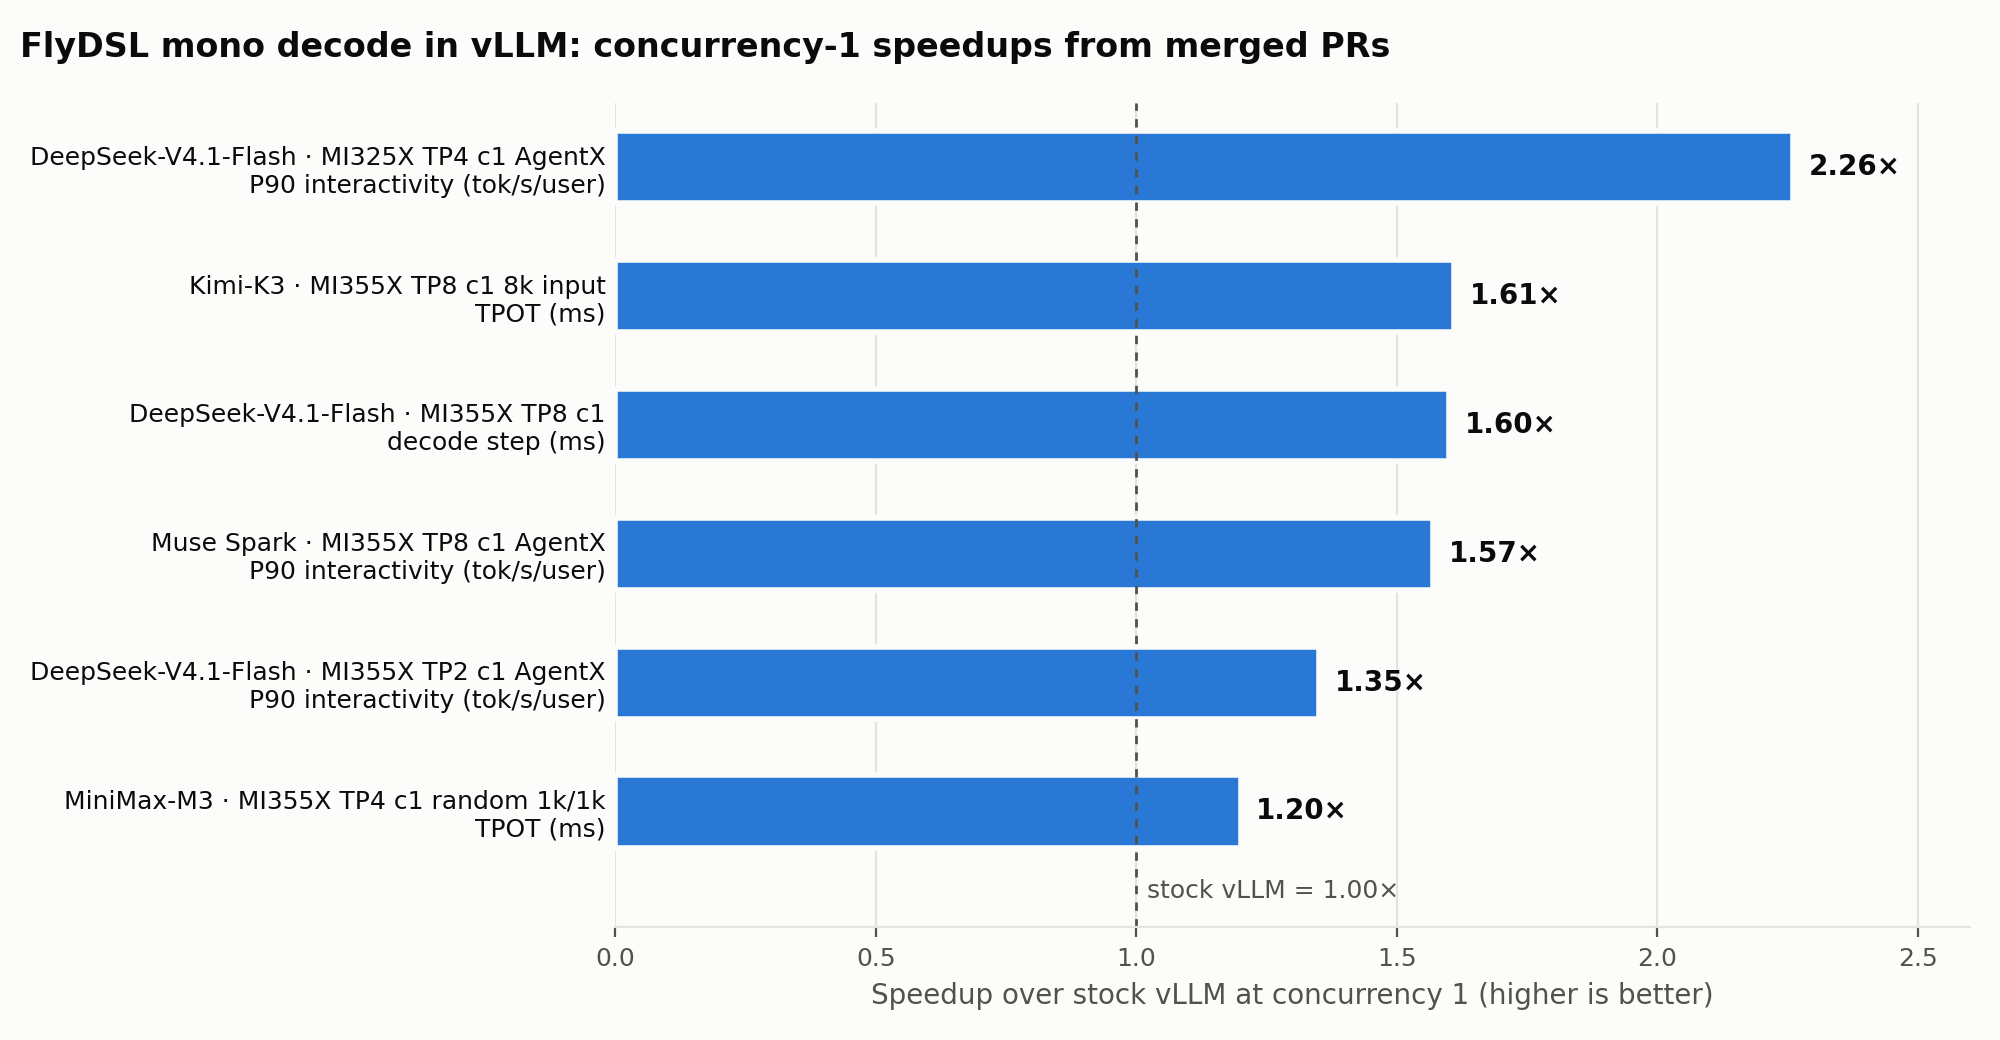
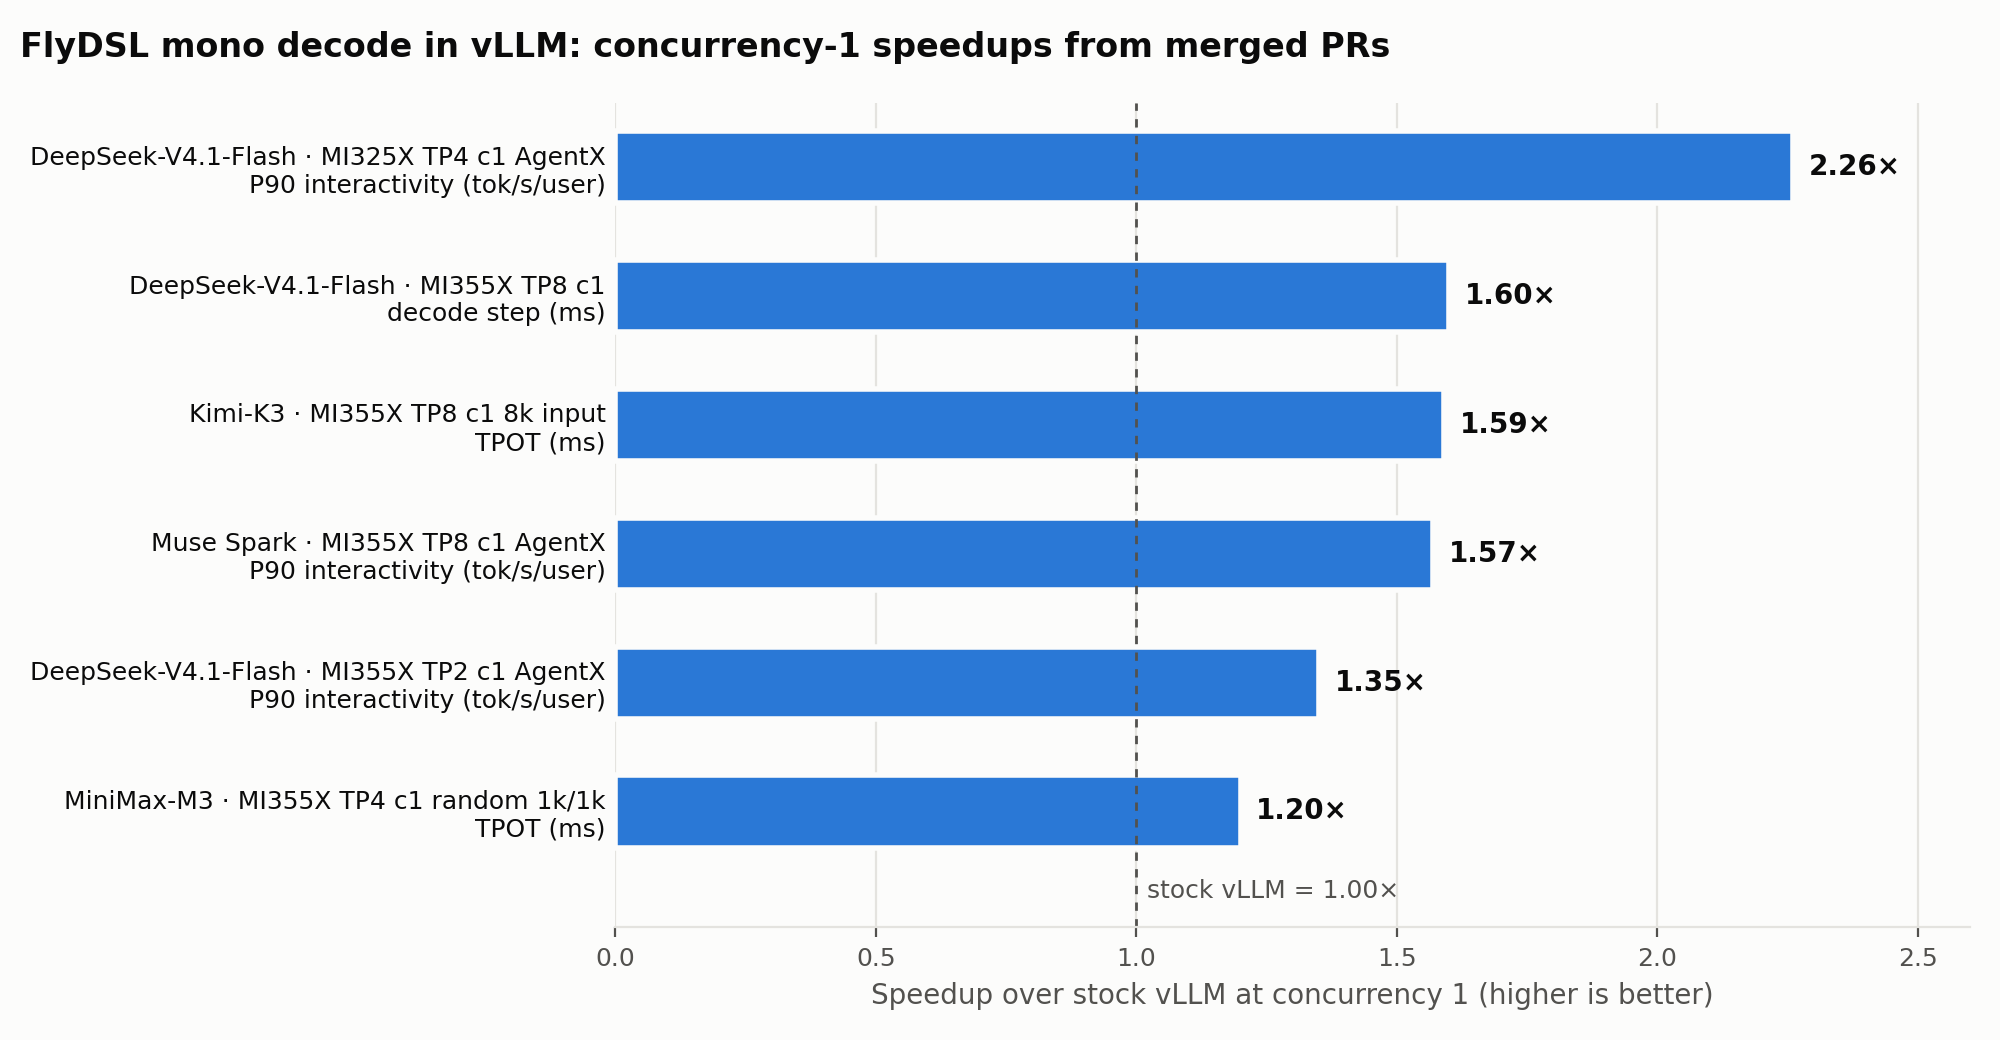
Review pass: tighten claims against the source PRs
- Scope MI325X support to DeepSeek-V4.1-Flash; note Kimi-K3's switch
- Qualify fail-stop (Kimi-K3/MiniMax-M3 only) and the CDNA3 port
- Use the two-seed mean for Kimi-K3 TPOT (1.59x), re-plot Figure 1
- Clarify Muse Spark baselines, accuracy protocol, TTFT, and GLM-5.2 source

diff --git a/blogs/software-tools-optimization/vllm-flydsl-mono-kernels/README.md b/blogs/software-tools-optimization/vllm-flydsl-mono-kernels/README.md
@@ -29,12 +29,12 @@ myst:
 
 ## Overview
 
-Extremely high interactivity is critical for LLM applications with strict latency requirements. A coding agent can't call its next tool until it has generated its current action, so decode latency sits directly on the critical path of the task. Serving at this level of interactivity means trading aggregate throughput for per-user speed and running each replica at low concurrency, such as the one to eight concurrent requests measured in this post. That is exactly where decode on today's large MoE models wastes the most time. A decode step launches thousands of short GPU kernels. Each kernel waits for the previous one to finish completely, and none of them has enough work to keep the GPU busy.
+Extremely high interactivity is critical for LLM applications with strict latency requirements. A coding agent can't call its next tool until it has generated its current action, so decode latency sits directly on the critical path of the task. Serving at this level of interactivity means trading aggregate throughput for per-user speed and running each replica at low concurrency, such as the one to eight concurrent requests measured in this post. That is exactly where decode on today's large MoE models wastes the most time. A decode step can launch thousands of short GPU kernels. Each kernel waits for the previous one to finish completely, and none of them has enough work to keep the GPU busy.
 
-This post describes how we addressed this in vLLM with **MonoKernels**: persistent kernels written in [FlyDSL](https://github.com/ROCm/FlyDSL) that run most of a decoder layer, including its tensor-parallel all-reduces, in one or two launches. Since October 2026, mono decode has been merged into vLLM `main` for **DeepSeek-V4.1-Flash**, **DeepSeek-V4-Pro**, **MiniMax-M3**, **Kimi-K3**, and **Muse Spark**, on both MI355X and MI300X/MI325X. Ports for GLM-5.x, Qwen3.8, and MiniMax-M3.1 are in review. It is opt-in with a single flag, `--monokernel`. In the merged PRs it delivers:
+This post describes how we addressed this in vLLM with **MonoKernels**: persistent kernels written in [FlyDSL](https://github.com/ROCm/FlyDSL) that run most of a decoder layer, including its tensor-parallel all-reduces, in one or two launches. Since October 2026, mono decode has been merged into vLLM `main` for **DeepSeek-V4.1-Flash**, **DeepSeek-V4-Pro**, **MiniMax-M3**, **Kimi-K3**, and **Muse Spark** on MI355X, and for DeepSeek-V4.1-Flash also on MI325X. Ports for GLM-5.x, Qwen3.8, and MiniMax-M3.1 are in review. Mono decode is always opt-in. In the merged PRs it delivers:
 
 - up to **2.26× P90 interactivity** on the AgentX benchmark (DeepSeek-V4.1-Flash, MI325X), and
-- up to **1.61× lower time per output token** (Kimi-K3, MI355X),
+- up to **1.59× faster time per output token** (Kimi-K3, MI355X),
 
 with GSM8K, GPQA-Diamond, AIME25, and RULER NIAH accuracy within run-to-run noise.
 
@@ -42,13 +42,13 @@ with GSM8K, GPQA-Diamond, AIME25, and RULER NIAH accuracy within run-to-run nois
 
 At high batch sizes, decode is a throughput problem, and a sequence of well-tuned GEMM, attention, and communication kernels works fine. At small batch sizes it becomes a latency problem, for three reasons.
 
-First, **there are a lot of kernels.** A MoE decoder layer runs norms, projections, RoPE, the KV-cache insert, attention, the combine, a TP all-reduce, the router, top-k, the shared expert, the routed experts, and a second all-reduce. Each of these is a separate launch, often more than one. CUDA graphs remove the CPU launch cost, but every kernel still has to ramp up and drain on the GPU.
+First, **there are a lot of kernels.** A MoE decoder layer runs norms, projections, RoPE, the KV-cache insert, attention, the combine, a TP all-reduce, the router, top-k, the shared expert, the routed experts, and a second all-reduce. Most of these are separate launches, and some take several. CUDA graphs remove the CPU launch cost, but every kernel still has to ramp up and drain on the GPU.
 
 Second, **each stage waits for the whole previous stage.** A projection can't start until the entire previous kernel has finished, even if the rows it needs were ready long before.
 
-Third, **there isn't enough work to fill the GPU.** A few token rows can't occupy 256 compute units. The time goes into streaming weights from HBM, and between kernels the GPU sits idle.
+Third, **there isn't enough work to fill the GPU.** A few token rows can't occupy the hundreds of compute units on an Instinct GPU. The time goes into streaming weights from HBM, and between kernels the GPU sits idle.
 
-RFC [#60904](https://github.com/vllm-project/vllm/issues/60904), which set the vLLM standard for this work, measured the problem on GLM-5.2-MXFP4 (TP8, 8× MI350X). A graph-mode decode step in vLLM issues about **2,459 kernels**. With MonoKernels it issues about **210**: 75 MonoKernel launches plus the dense layers, input preparation, and the head.
+RFC [#60904](https://github.com/vllm-project/vllm/issues/60904), which set the vLLM standard for this work, measured the problem on GLM-5.2-MXFP4 (TP8, 8× MI350X), using the GLM-5.2 MonoKernel that is now in review ([#60889](https://github.com/vllm-project/vllm/pull/60889)). A graph-mode decode step in vLLM issues about **2,459 kernels**. With MonoKernels it issues about **210**: 75 MonoKernel launches plus the dense layers, input preparation, and the head.
 
 | GLM-5.2-MXFP4, TP8, MI350X | vLLM | MonoKernel | Speedup |
 |---|---|---|---|
@@ -66,7 +66,7 @@ A MonoKernel is an unusual kernel. It fuses a dozen stages with different shapes
 
 - **Kernels are Python, compiled just in time.** Kernels are written with `@flyc.kernel` / `@flyc.jit`, compiled on first use, and cached. vLLM builds the variant for each step width at warm-up (for example 6, 7, 28, or 48 token rows) and replays it under CUDA graphs.
 - **Control from the grid down to individual instructions.** A single kernel decides how work is split across blocks, waves, and threads, what layout and tiling each stage uses, when each load is issued, and when each result is published. Where it matters, the schedule can name specific MFMA and buffer instructions.
-- **Layout algebra instead of byte offsets.** Tiling, LDS swizzles, and MFMA operand layouts are written as layout operations with copy and MMA atoms. This is what made it possible to port DeepSeek-V4.1 mono decode from CDNA4 (MI355X) to CDNA3 (MI300X/MI325X): the stage code is the same, and only the tile sizes change for the smaller LDS and FNUZ FP8.
+- **Layout algebra instead of byte offsets.** Tiling, LDS swizzles, and MFMA operand layouts are written as layout operations with copy and MMA atoms. This helped DeepSeek-V4.1 mono decode move from CDNA4 (MI355X) to CDNA3 (MI300X/MI325X): the port keeps the same stage structure and adapts tile sizes to the smaller LDS and the MMA paths to CDNA3, which has FNUZ FP8 and no scaled MFMA.
 - **Native low precision.** Scaled MXFP4/MXFP8 MFMAs and E8M0 scales are built in. On MI355X, the kernels read vLLM's loaded weights in place, including AITER's shuffled MXFP4 expert layout, so no second copy is needed.
 - **Easy to ship and review.** The kernel source lives in the model's directory in the vLLM repo and is reviewed like any other model code. The only new runtime dependency is the `flydsl` wheel. Because compilation is deterministic, PRs can show with an ISA diff (`FLYDSL_DUMP_IR` + `COMPILE_ONLY`) that a change leaves unrelated kernels byte-identical, or compare register, spill, and LDS counts before and after.
 
@@ -78,7 +78,7 @@ The design is inspired by [TileRT](https://github.com/tile-ai/TileRT). A MonoKer
 2. **Load weights early.** Weights for later stages, such as the output projection or the experts' up/gate projections, are prefetched while earlier stages are still computing. This hides HBM traffic, the main cost at small batch, behind compute.
 3. **Pass on ready data.** Partial results go into **tagged mailboxes**. A downstream stage, or a reduction on a peer GPU, starts as soon as the tile it needs is tagged ready, without waiting for the whole stage to finish.
 
-DeepSeek-V4.1-Flash ([#60397](https://github.com/vllm-project/vllm/pull/60397)) was the first model in vLLM to use this approach. Each decoder layer that used to issue about 40 kernels now runs as two launches:
+DeepSeek-V4.1-Flash ([#60397](https://github.com/vllm-project/vllm/pull/60397)) was the first model to land this approach in vLLM. Each decoder layer that used to issue about 40 kernels now runs as two launches:
 
 | Launch | Stages |
 |---|---|
@@ -91,13 +91,13 @@ Running this inside a production serving engine required several more design dec
 
 - **Hand-offs are tagged with an epoch instead of being cleared every step.** No host-side hook is needed between steps, so the launches can be captured in FULL CUDA graphs. Each step width gets its own scratch buffer, and a stress test ran 100K graph replays per layer without a mismatch.
 - **Mono layers take and return the same tensors as vLLM's layers.** The two paths can run in the same forward pass. Prefill, mixed batches, wider steps, and PIECEWISE graphs fall back to the stock path layer by layer.
-- **Failures stop every rank together.** Every in-kernel wait has a timeout. If a rank stalls, it sets a sticky health word, and all TP ranks raise at the same step instead of hanging in a collective.
+- **Failures stop every rank together.** Because TP ranks wait on each other inside the kernel, a stalled rank could hang the whole server. The Kimi-K3 and MiniMax-M3 paths add fail-stop: every in-kernel wait has a timeout, a stalled rank sets a sticky health word, and all TP ranks raise at the same step instead of hanging in a collective. Bringing the same bounded waits to DeepSeek-V4.1 is planned.
 
 ## Bringing Mono Decode into vLLM
 
-A specialized decode can reach tens of thousands of lines, so after the first PR landed the community agreed on how such code should live in vLLM. RFC [#60904](https://github.com/vllm-project/vllm/issues/60904) set four rules, and every mono PR since then follows them:
+A specialized decode can reach tens of thousands of lines, so while the first mono PRs were in review the community agreed on how such code should live in vLLM. RFC [#60904](https://github.com/vllm-project/vllm/issues/60904) set four rules, and the merged mono PRs follow them:
 
-1. **Opt-in.** Mono decode is off by default and enabled with one switch, `--monokernel`.
+1. **Opt-in.** Mono decode is off by default and enabled with one switch: `--monokernel` for most models, and `--additional-config '{"decode_backend": "latency_specialized"}'` for Kimi-K3.
 2. **Refuse at startup.** A deployment the kernels don't support fails immediately with one error that lists every reason: wrong TP size, expert parallelism, LoRA, KV connectors, a partitioned GPU, an unsupported KV dtype, and so on. There is no silent fallback.
 3. **The model owns the code.** Kernels and their runtime live under `vllm/models/<model>/amd/`. The existing model files only call into that folder. For Kimi-K3 this took 26 added lines, with no changes to `vllm/v1/` or `vllm/config/`.
 4. **One `plan()` per step.** The plan picks mono or stock for each layer of the step. It depends only on metadata that every TP rank holds, so all ranks stay in lockstep.
@@ -123,7 +123,7 @@ The first measurement compares mono off and on, on the same node at TP2 on MI355
 | 4 | 288.0 → 332.4 (**1.15×**) | 33,043 → 35,885 (1.09×) | 1.27 → 1.26 |
 | 8 | 214.6 → 245.3 (**1.14×**) | 58,294 → 60,501 (1.04×) | 1.01 → 1.08 |
 
-Interactivity improves at every concurrency, and the gain narrows as concurrency rises. TTFT is essentially unchanged, because prefill doesn't use the mono path.
+Interactivity improves at every concurrency, and the gain narrows as concurrency rises. Prefill doesn't use the mono path, and P90 TTFT moves by at most 0.1 s in either direction across these single runs.
 
 The same PR added an FFN launch for the remaining 10 layers, which adds another 1.02–1.19×. At TP4, P90 interactivity at concurrency 1 / 2 / 4 / 8 is **1.66× / 1.56× / 1.64× / 1.38×** that of InferenceX's published run of the same recipe. [#61082](https://github.com/vllm-project/vllm/pull/61082) then runs all 40 layers as K1 + K2, which brings TP4 concurrency-1 P90 interactivity to **562.6 tok/s/user** (+3.9%).
 
@@ -162,16 +162,16 @@ Full-layer mono decode for M3 and M3.1, which also fuses attention and the spars
 
 ### Kimi-K3
 
-Kimi-K3 mixes KDA linear-attention layers with MLA layers. The first PR ([#60683](https://github.com/vllm-project/vllm/pull/60683)) runs the KDA layers as K1 + K2 and the MoE half of the MLA layers as K2. The follow-up ([#61435](https://github.com/vllm-project/vllm/pull/61435)) adds MLA prologue and epilogue kernels and, at DCP1, fuses a FlyDSL MLA decode-attention stage into K2. An MLA layer then takes two launches. TPOT at TP8 on MI355X, concurrency 1, seven speculative tokens:
+Kimi-K3 mixes KDA linear-attention layers with MLA layers. The first PR ([#60683](https://github.com/vllm-project/vllm/pull/60683)) runs the KDA layers as K1 + K2, and runs the MLA layers' output projection and MoE as K2. The follow-up ([#61435](https://github.com/vllm-project/vllm/pull/61435)) adds MLA prologue and epilogue kernels and, at DCP1, fuses a FlyDSL MLA decode-attention stage into K2, so an MLA layer takes two launches. TPOT P50 at TP8 on MI355X, concurrency 1, seven speculative tokens (the stock and #60683 columns are #60683's published numbers; #61435 is the mean of two seeds):
 
 | Input length | Stock | #60683 | #60683 + #61435 (DCP1) | Total |
 |---|---|---|---|---|
-| 8k | 5.47 ms | 4.35 ms | **3.40 ms** | **1.61×** |
-| 64k | 5.67 ms | 4.47 ms | **3.56 ms** | **1.59×** |
+| 8k | 5.47 ms | 4.35 ms | **3.44 ms** | **1.59×** |
+| 64k | 5.67 ms | 4.47 ms | **3.58 ms** | **1.58×** |
 
 ### Muse Spark
 
-Muse Spark Open MXFP4 ([#63440](https://github.com/vllm-project/vllm/pull/63440)) runs decoder layers 1–60 of every DSpark verify step as persistent launches on 8× MI355X with TP8 and expert parallelism. The comparison is on AgentX's agentic-coding traces (median input length 159k tokens), against the faster of the recipe's two stock configurations at each concurrency:
+Muse Spark Open MXFP4 ([#63440](https://github.com/vllm-project/vllm/pull/63440)) runs decoder layers 1–60 of every DSpark verify step as persistent launches on 8× MI355X with TP8 and expert parallelism. The comparison is on AgentX's agentic-coding traces (median input length 159k tokens). The baseline is the recipe's stock TP8 configuration at concurrency 1, its stock TEP8 configuration at concurrency 8, and the faster of the two in between:
 
 | Concurrency | Interactivity (tok/s/user) | Total tok/s/GPU |
 |---|---|---|
@@ -182,17 +182,17 @@ Muse Spark Open MXFP4 ([#63440](https://github.com/vllm-project/vllm/pull/63440)
 
 ### Accuracy
 
-A fused kernel quantizes, accumulates, and reduces in a different order from the stock path, so every mono PR ships with an accuracy study. The PRs follow the protocol of RFC [#59665](https://github.com/vllm-project/vllm/issues/59665): the full GSM8K set, GPQA-Diamond, AIME25, and RULER NIAH at 32K–256K context or longer, with real speculative acceptance, compared paired by question. The differences stay within noise:
+A fused kernel quantizes, accumulates, and reduces in a different order from the stock path, so every mono PR reports accuracy with mono on and off. The DeepSeek and Muse Spark PRs follow the protocol of RFC [#59665](https://github.com/vllm-project/vllm/issues/59665): the full GSM8K set, GPQA-Diamond, AIME25, and RULER NIAH at 32K–256K context or longer, with real speculative acceptance, compared paired by question. The differences stay within noise:
 
 - **DeepSeek-V4.1-Flash, TP2:** GPQA-Diamond 85.3 → 85.1 (Δ −0.2 ± 0.6), AIME25 99.4 → 98.3 (Δ −1.0 ± 0.7), and RULER NIAH 40/40 in every cell.
 - **DeepSeek-V4.1-Flash, MI325X:** GSM8K 0.9247 → 0.9270 (p = 0.49).
 - **Muse Spark:** GPQA-Diamond 88.5 → 88.7, AIME25 98.3 → 98.6.
 
-Below the end-to-end evaluations, every layer is tested against vLLM's own op chain and an exact fp32 reference: per-token cosine similarity ≥ 0.999 and bit-exact results across hundreds of CUDA-graph replays.
+Below the end-to-end evaluations, the mono layers are tested against vLLM's own op chain and an exact fp32 reference, for example per-token cosine similarity ≥ 0.999 for DeepSeek-V4.1-Flash and bit-exact results across 300 CUDA-graph replays.
 
 ## Try It
 
-Mono decode is opt-in, so add `--monokernel` to a supported recipe. For DeepSeek-V4.1-Flash on MI355X:
+Mono decode is opt-in, so add `--monokernel` to a supported recipe. For example, the DeepSeek-V4.1-Flash setup used in the PRs on MI355X:
 
 ```bash
 VLLM_ROCM_USE_AITER=1 \
@@ -210,7 +210,7 @@ If the deployment isn't supported, vLLM refuses to start and lists every reason.
 
 ## FlyDSL Beyond Mono Decode
 
-MonoKernels are the most visible use of FlyDSL in vLLM, but they aren't the only one. Many standalone FlyDSL kernels reach vLLM's ROCm path, mostly through AITER:
+MonoKernels are the most visible use of FlyDSL in vLLM, but they aren't the only one. Many standalone FlyDSL kernels reach vLLM's ROCm path, most of them through AITER:
 
 | Area | PRs |
 |---|---|
@@ -230,7 +230,7 @@ Mono decode is a latency optimization, and its benefits have limits:
 - **Gains shrink with batch size.** On DeepSeek-V4.1-Flash TP2, P90 interactivity improves 1.35× at concurrency 1 but 1.14× at concurrency 8. Its FFN launch at TP2, concurrency 8 is at parity (345 → 342 µs per layer), and MiniMax-M3 reaches parity at 16 rows. At TP8, mono decode is a concurrency-1 configuration; by concurrency 4, two TP4 replicas deliver more throughput.
 - **Steps are limited in width.** Each kernel is built for specific step widths, and speculative tokens and graph padding count toward the limit. DeepSeek-V4.1 supports up to 48 rows on MI355X and 42 on MI325X, where LDS is 64 KB instead of 160 KB. MiniMax-M3 and Kimi-K3 support up to 16. Wider steps run on the stock path.
 - **Fusion costs registers and LDS.** Fusing more stages can lower occupancy, so each schedule is tuned for its architecture and TP size.
-- **Weight copies on gfx942.** MI300X and MI325X have no scaled FP4/FP8 MFMA, so the kernels keep their own copy of the weights. For DeepSeek-V4.1 this is 170 GiB per rank instead of 99 GiB, which fits on MI325X but not on MI300X.
+- **Weight copies on gfx942.** MI300X and MI325X have no scaled FP4/FP8 MFMA, so the kernels keep their own copy of the weights. For DeepSeek-V4.1 at TP4 this is 170 GiB per rank instead of 99 GiB. That still leaves a large KV cache on MI325X, but little room on MI300X.
 - **Each model needs its own work.** Every model needs its own schedule and ongoing validation. The RFC, the shared runtime layer, and the authoring guide are meant to keep that cost down.
 
 ## Building Mono Decode for a New Model
@@ -247,7 +247,7 @@ The authoring guide ([#62256](https://github.com/vllm-project/vllm/pull/62256)) 
 
 Small-batch decode spends most of its time between kernels: launching them, waiting for whole stages to finish, and streaming weights while the GPU idles. FlyDSL MonoKernels remove most of that time by running a decoder layer as one or two persistent launches that reuse thread blocks across stages, prefetch weights, pass ready data forward through tagged mailboxes, and reduce across GPUs inside the kernel. FlyDSL makes this practical: kernels are written in Python, specialized and compiled just in time, controlled down to individual instructions, and portable across CDNA3 and CDNA4 through its layout algebra.
 
-In vLLM, mono decode is now merged for five model families and follows a common, opt-in standard. It improves concurrency-1 interactivity or time per output token by 1.20× to 2.26×, with accuracy held within noise. We invite the vLLM community to try `--monokernel` on AMD Instinct GPUs, review the in-flight ports, and use the authoring guide to bring mono decode to new models.
+In vLLM, mono decode is now merged for five model families and follows a common, opt-in standard. It improves concurrency-1 interactivity or time per output token by 1.20× to 2.26×, with accuracy within noise. We invite the vLLM community to try `--monokernel` on AMD Instinct GPUs, review the in-flight ports, and use the authoring guide to bring mono decode to new models.
 
 ## References
 
